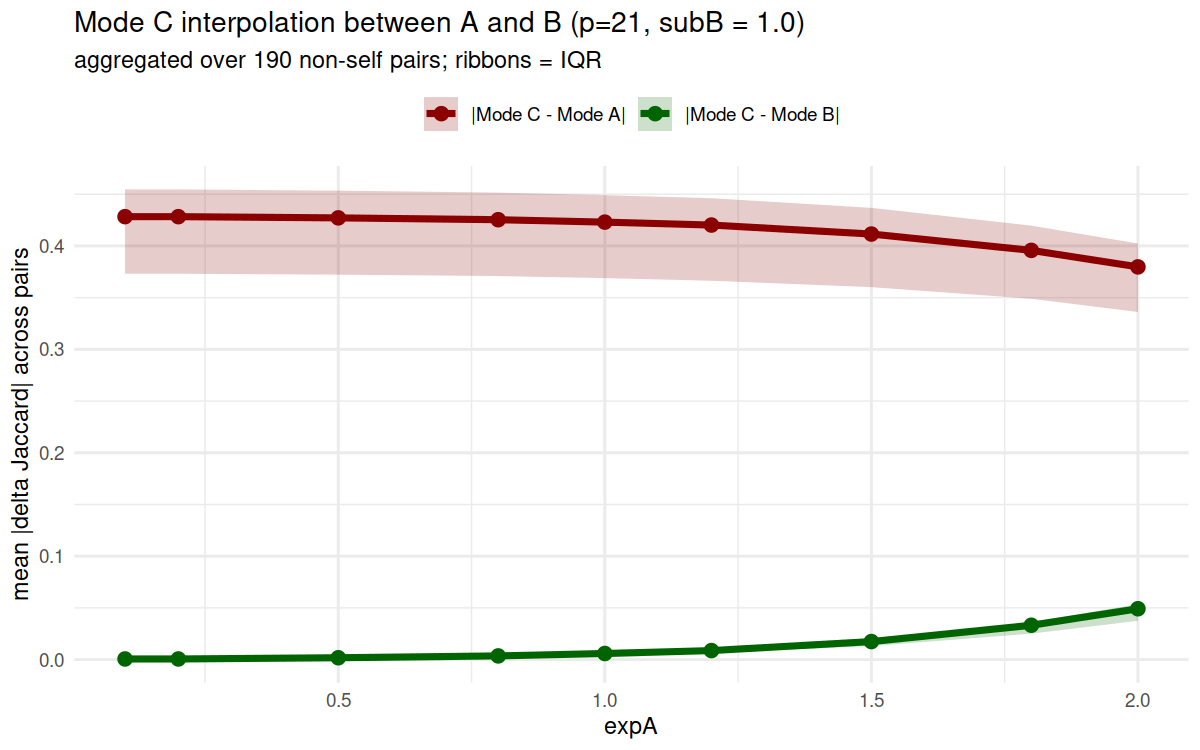
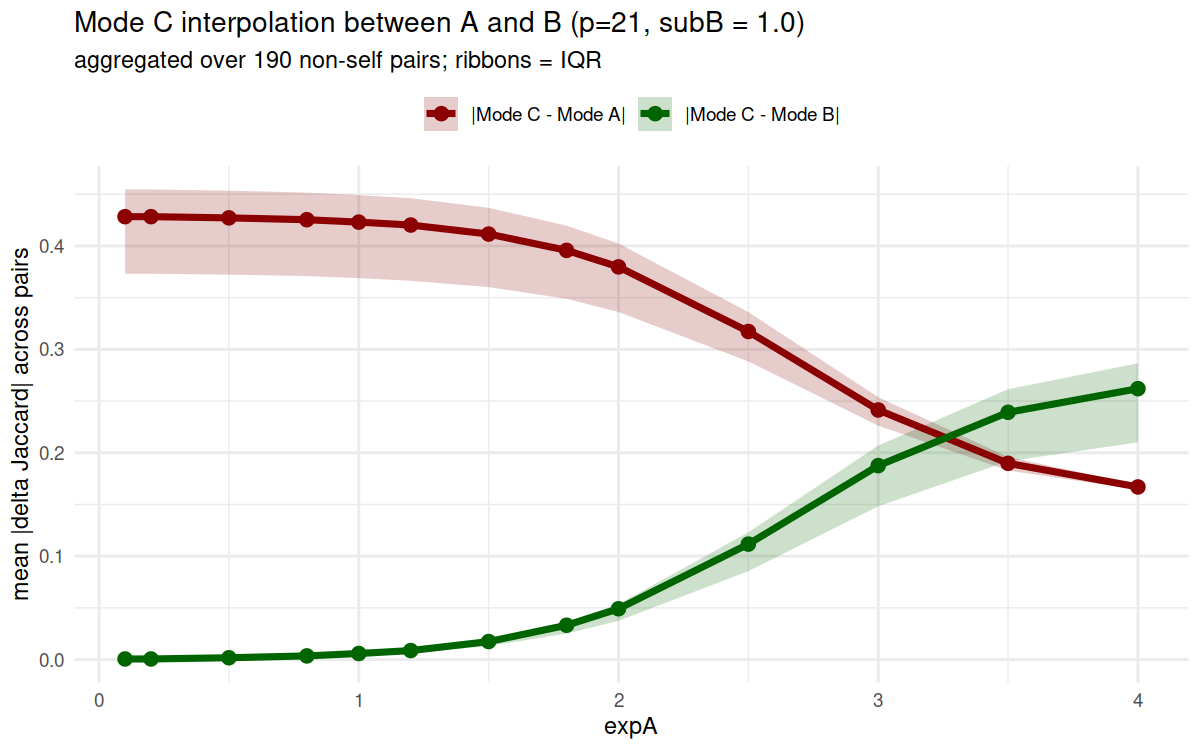
maurano_dhs_validation: extend Mode C expA sweep to 4.0, show A/B crossover
Previous expA sweep stopped at 2.0, where Mode C was still in the
Mode-B regime (|C-B|<0.05). Extending to {2.5, 3.0, 3.5, 4.0} reveals
the crossover between expA=3.0 and 3.5: by expA=4, |C-A|=0.17 vs
|C-B|=0.26 (Mode-A regime). RESULTS.md caption updated.

diff --git a/experiments/maurano_dhs_validation/RESULTS.md b/experiments/maurano_dhs_validation/RESULTS.md
@@ -31,10 +31,13 @@ are indistinguishable at the per-pair level.
 
 ![](figures/mode_c_expA_interpolation_agg.png)
 
-**expA is a much weaker knob — within `expA ∈ [0.1, 2.0]` Mode C never
-leaves Mode-B territory.** |C − Mode B| stays under 0.05 across the whole
-sweep. If you want to tune Mode C toward Mode A behaviour, use subB;
-expA barely moves the needle.
+**expA is a weaker but still real knob — the bend only shows up past
+expA ≈ 2, with the A/B crossover sitting between expA = 3.0 and 3.5.**
+Below expA = 2, |C − Mode B| stays under 0.05 (Mode-B regime). By
+expA = 4, |C − Mode A| has dropped to 0.17 while |C − Mode B| has climbed
+to 0.26 (Mode-A regime). Compared to subB, the transition is much
+shallower — you need to push expA all the way to ~4 to see the same
+swing that subB delivers between 0.001 and 0.005.
 
 ---
 
